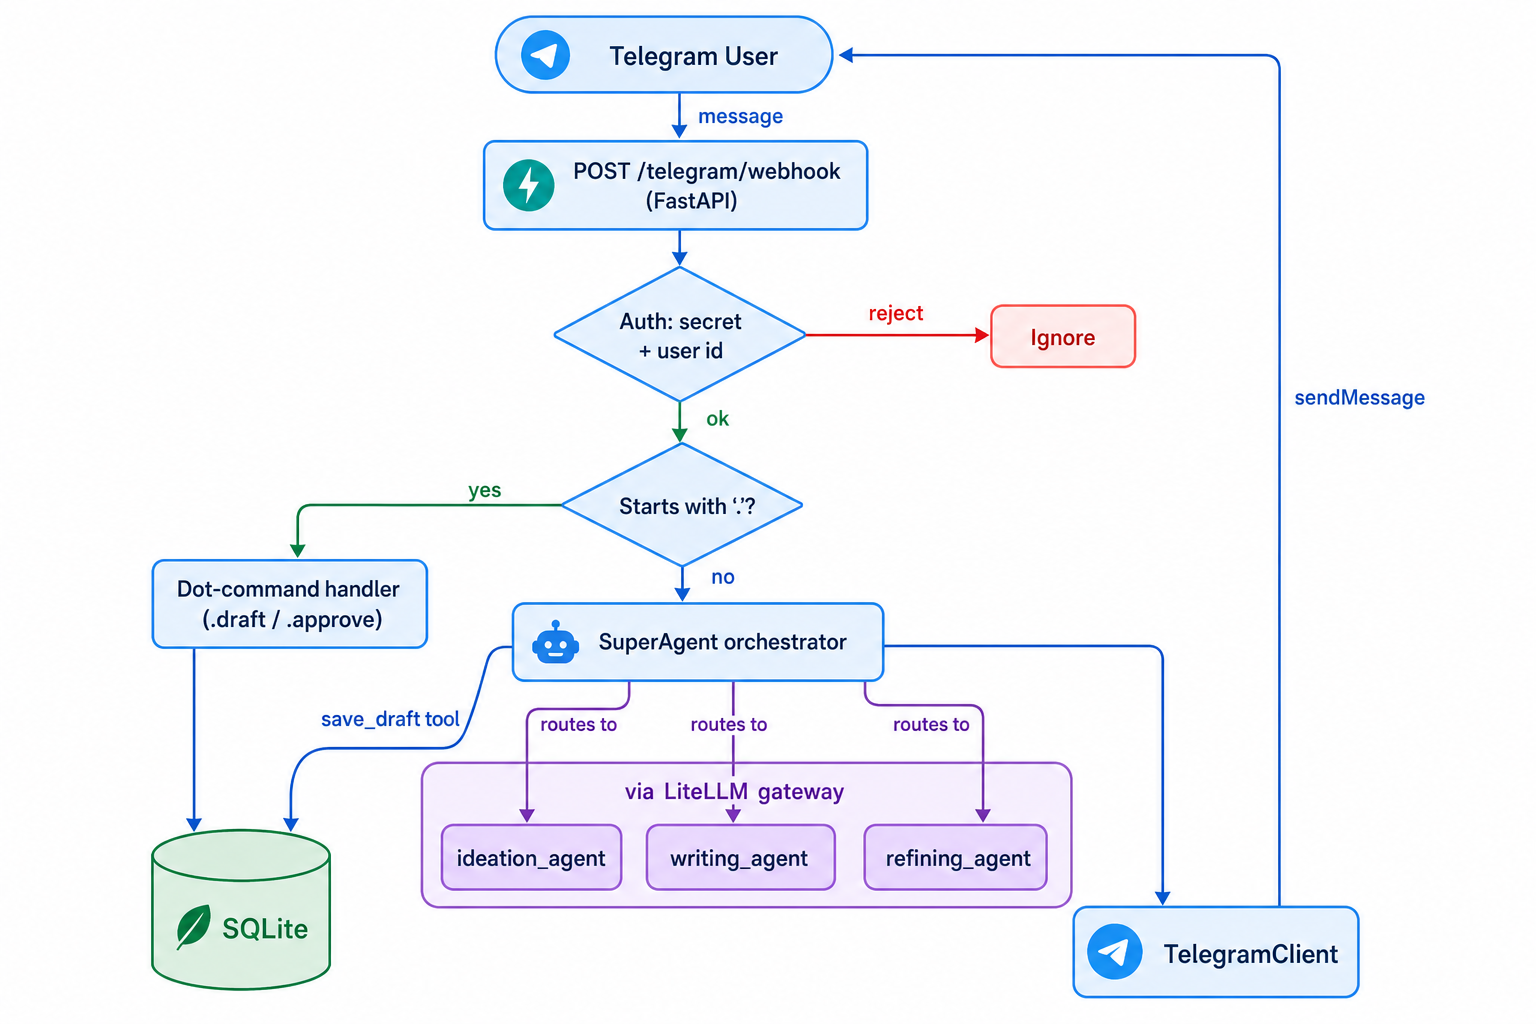
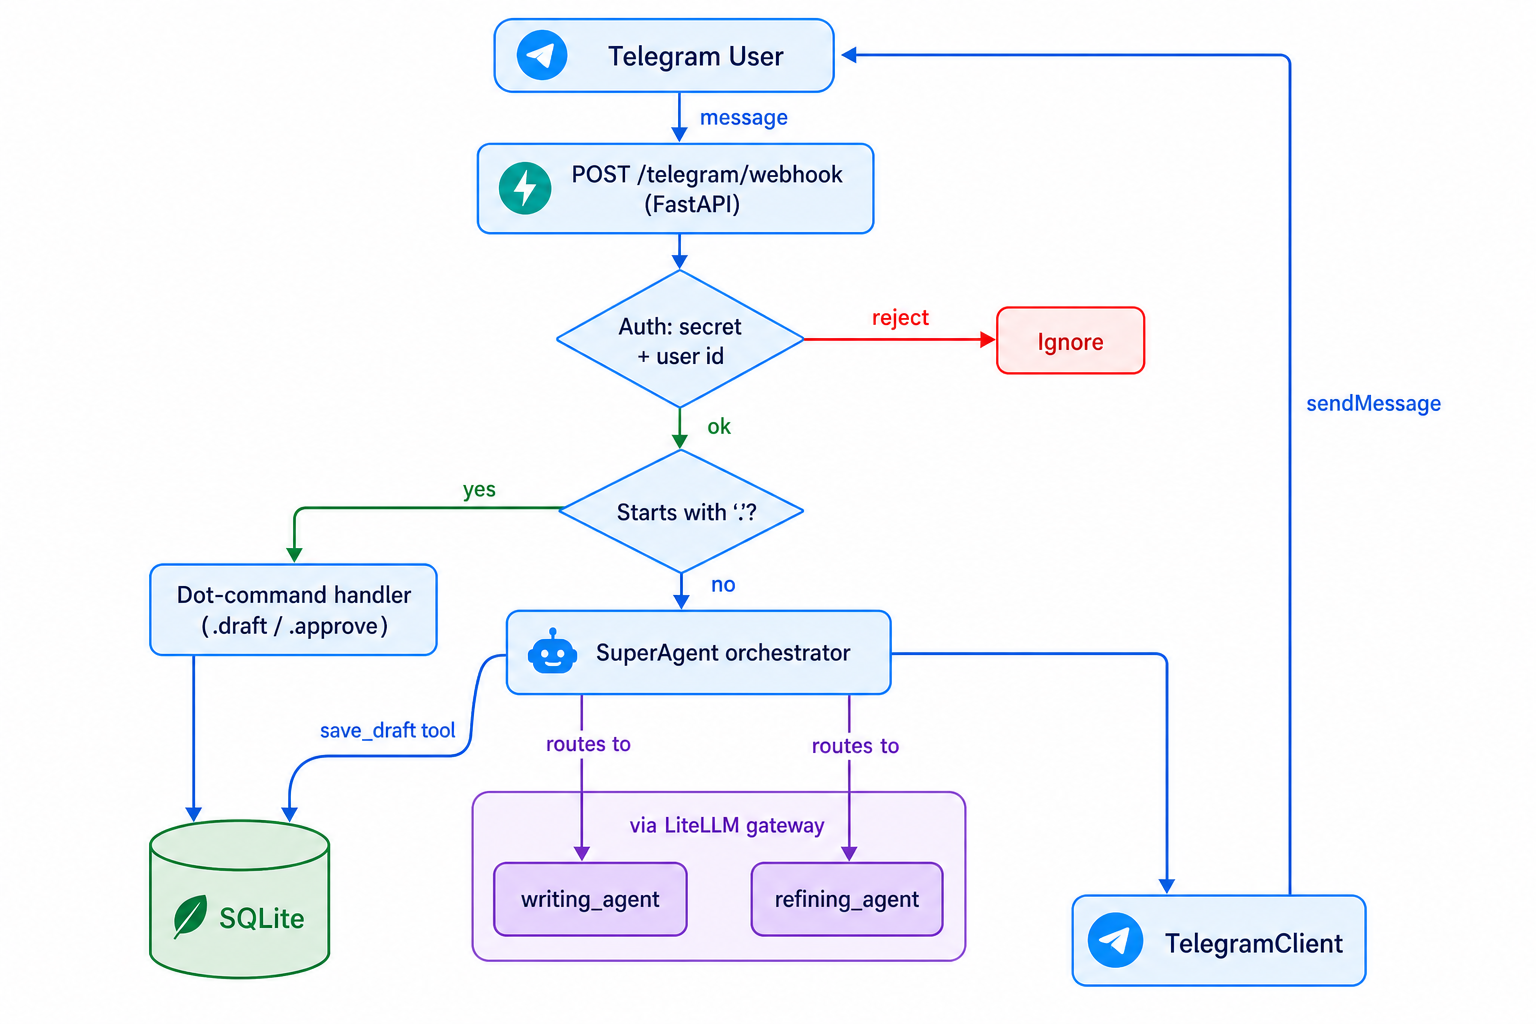
feat: production ready (#8)

Changed region(s): [[0.0938, 0.0, 0.9375, 1.0], [0.0938, 0.7812, 0.2188, 0.9688]]

diff --git a/src/telegram/webhook.py b/src/telegram/webhook.py
@@ -30,15 +30,26 @@ async def handle_webhook(
     if not incoming_message:
         outgoing_message = "Whoopsie-Daisy, I can only handle text messages!"
     elif incoming_message.strip().startswith("."):
-        outgoing_message = await handle_dot_commands(
-            message=incoming_message, chat_id=chat_id
-        )
+        try:
+            outgoing_message = await handle_dot_commands(
+                message=incoming_message, chat_id=chat_id
+            )
+        except Exception:
+            logger.error("dot commands failed.")
+            outgoing_message = "Dot commands failed."
     else:
-        outgoing_message = await agent.chat(
-            message=incoming_message, session_id=chat_id
-        )
+        try:
+            outgoing_message = await agent.chat(
+                message=incoming_message, session_id=chat_id
+            )
+        except Exception:
+            logger.error("agent chat functionality failed.")
+            outgoing_message = "Agent chat functionality failed."
 
-    await telegram_client.send_message(chat_id=chat_id, message=outgoing_message)
+    try:
+        await telegram_client.send_message(chat_id=chat_id, message=outgoing_message)
+    except Exception:
+        logger.error("Could not send message to Telegram!")
 
 
 async def handle_dot_commands(message: str, chat_id: int) -> str:
@@ -48,17 +59,13 @@ async def handle_dot_commands(message: str, chat_id: int) -> str:
             current_draft = get_current_draft(chat_id=chat_id)
             return current_draft
 
-        case ".research":
-            # retrieves last interesting research links
-            return "implement research functionality"
-
         case ".approve":
             approve_current_draft(chat_id=chat_id)
             return "Draft approved!"
 
         case ".help":
             # list all .commands
-            return "implement help functionality"
+            return ".draft (retrieves last updated draft); .approve (approves the current draft); .refresh (clears session & current draft)"
 
         case ".refresh":
             # clears history (session & state) leaves drafts unchanged.

diff --git a/src/utils/logger.py b/src/utils/logger.py
@@ -2,6 +2,6 @@ import logging
 
 logging.basicConfig(
     level=logging.INFO,
-    format="%(asctime)s %(levelname)s %(name)s %(message)s",
+    format="%(asctime)s %(levelname)s %(message)s",
 )
 logger = logging.getLogger("linkforge")

diff --git a/README.md b/README.md
@@ -1,6 +1,6 @@
 # linkforge
 
-A multi-agent system that helps a single user ideate, write, and refine LinkedIn posts through a natural-language Telegram chat. Messages hit a FastAPI webhook, get routed by an super agent to specialist subagents (ideation, writing, refining), and drafts are persisted in SQLite. Quick `.commands` handle actions outside the chat memory of the agents.
+A multi-agent system that helps a single user ideate, write, and refine LinkedIn posts through a natural-language Telegram chat. Messages hit a FastAPI webhook, get routed by a super agent to specialist subagents (writing, refining), and drafts are persisted in SQLite. Quick `.commands` handle actions outside the chat memory of the agents.
 
 ## Project structure
 
@@ -28,16 +28,13 @@ linkforge/
     │   ├── tools.py            # Tools for the agents
     │   ├── super_agent/        # Orchestrator: routes to subagents
     │   │   ├── agent.py
-    │   │   └── prompt.md
-    │   ├── ideation_agent/     # Brainstorms angles & content
-    │   │   ├── agent.py
-    │   │   └── prompt.md
+    │   │   └── prompt.jinja2
     │   ├── writing_agent/      # Writes the main body of the LinkedIn post
     │   │   ├── agent.py
-    │   │   └── prompt.md
+    │   │   └── prompt.jinja2
     │   └── refining_agent/     # Critiques & rewrites a draft
     │       ├── agent.py
-    │       └── prompt.md
+    │       └── prompt.jinja2
     └── utils/
         └── logger.py
 ```
@@ -49,7 +46,15 @@ linkforge/
 ## How it works
 
 1. **Telegram → webhook**: User messages reach `POST /telegram/webhook`, validated by a shared secret header and an allowlisted user id (`telegram/auth.py`).
-2. **Routing**: `.commands` (e.g. `.draft`, `.approve`) are handled directly for administrative actions; all other text is sent to the `SuperAgent`.
-3. **Orchestration**: The `SuperAgent` routes requests to the right specialist subagent (ideation / writing / refining) exposed as tools, and persists full drafts via the `save_draft` tool.
+2. **Routing**: `.commands` (`.draft`, `.approve`, `.refresh`, `.help`) are handled directly for administrative actions; all other text is sent to the `SuperAgent`.
+3. **Orchestration**: The `SuperAgent` routes requests to the right specialist subagent (writing / refining) exposed as tools, and persists full drafts via the `save_draft` tool.
 4. **Persistence**: Drafts and approved posts live in SQLite; agent conversation memory uses `SQLiteSession` in the same DB.
 5. **Models**: All agents run through LiteLLM, making model swaps configurable.
+
+## Deployment
+
+1. **Install prerequisites**: [`uv`](https://docs.astral.sh/uv/) and Python `>=3.14` (`uv python install 3.14`).
+2. **Clone & install deps**: `git clone repo` & ` uv sync` (creates the venv from `uv.lock`).
+3. **Create a .env**: copy the `.env_local` rename to `.env`, and fill it in accordingly to which models you want to use.
+4. **Set up the Telegram bot**: create a bot with [@BotFather](https://t.me/BotFather) for `BOTFATHER_API_KEY`, create a `BOTFATHER_SECRET` and find your numeric chat id for `BOTFATHER_USER_ID`.
+5. **Start the app**: `uv run fastapi dev src/main.py`, SQLite tables are auto-created on startup.
